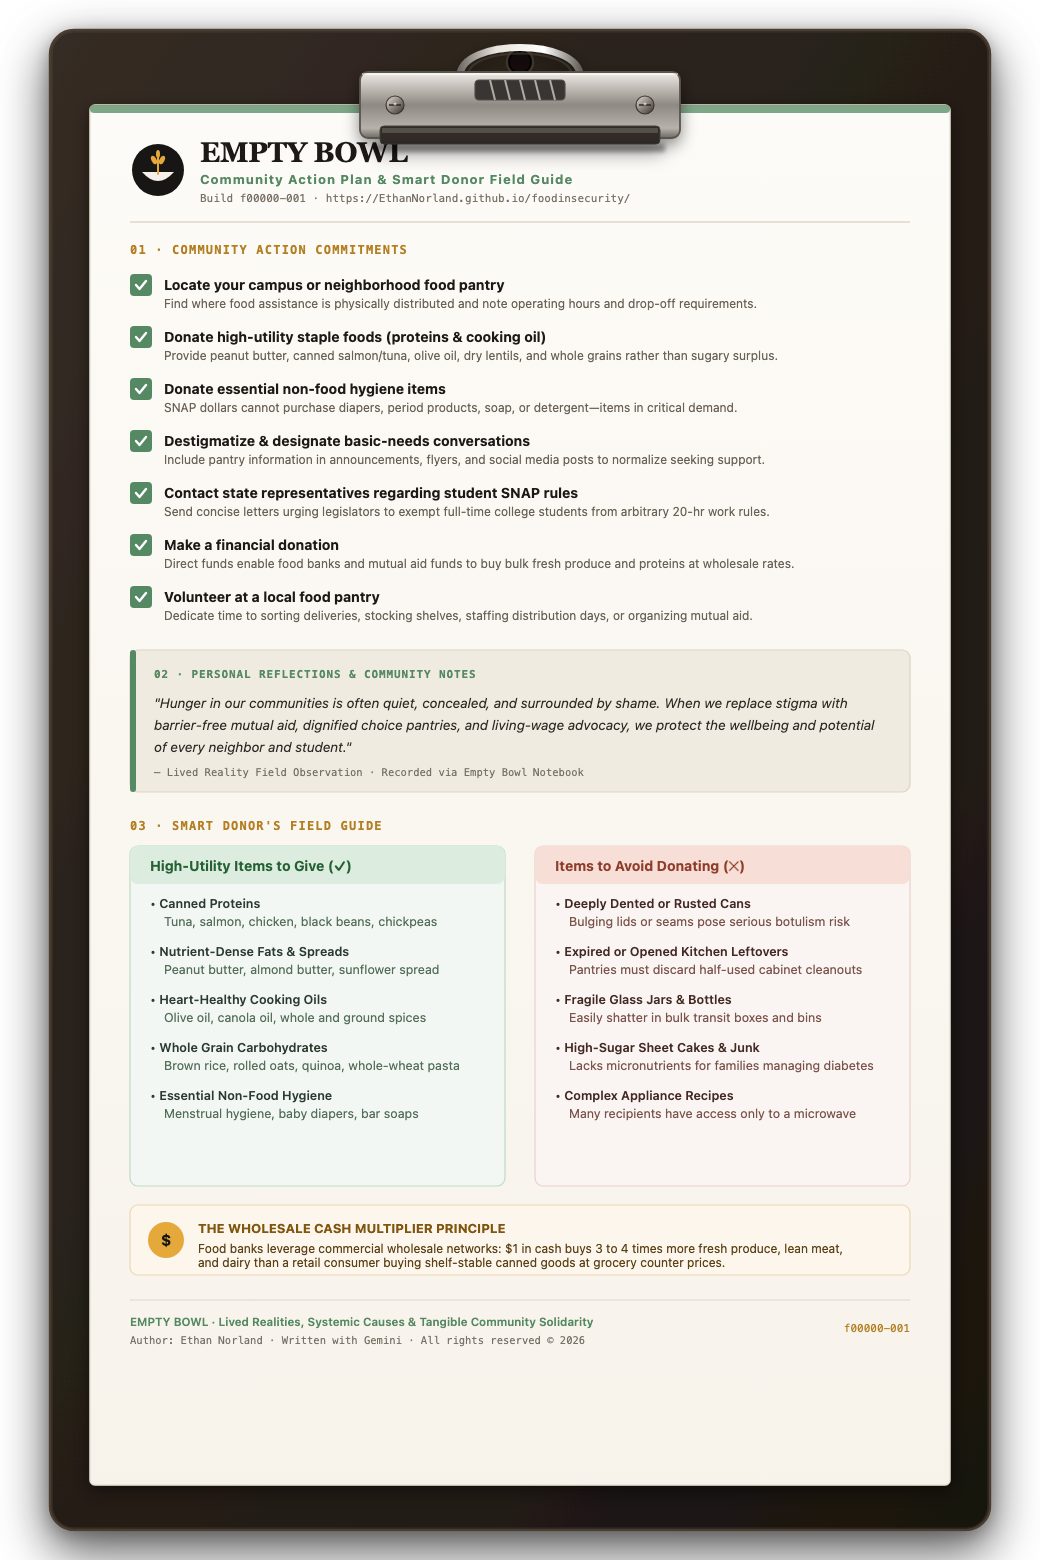
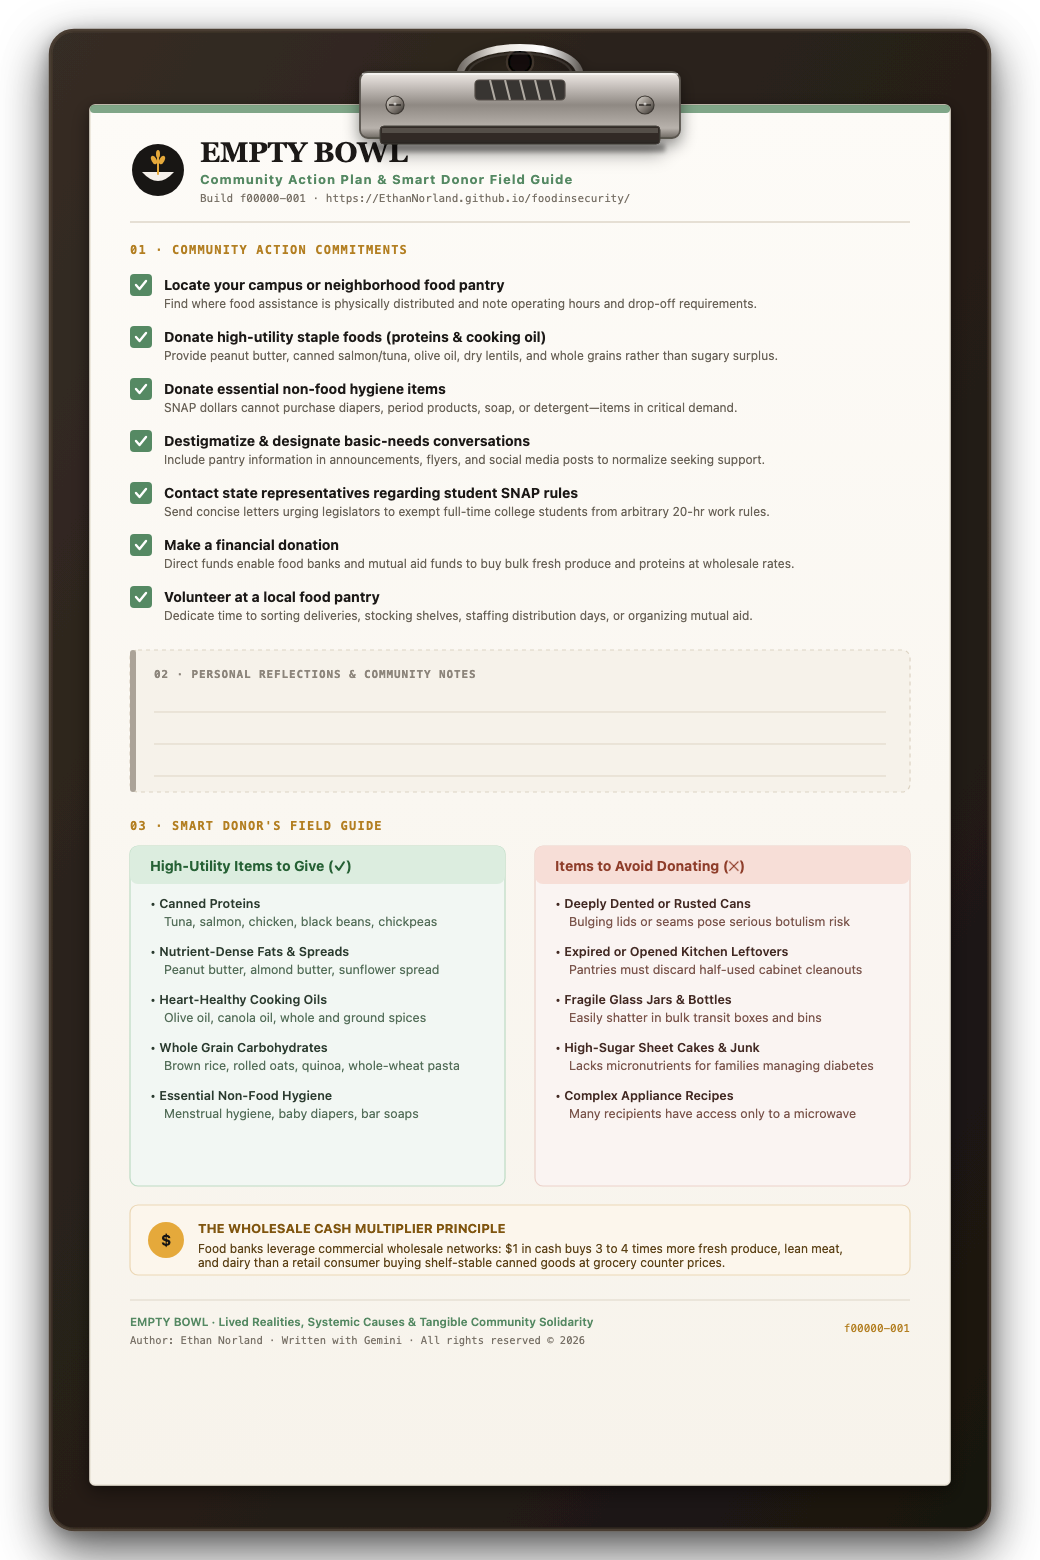
f00000-001: leave personal reflections and community notes blank on clipboard picture if unfilled

diff --git a/howyoucanhelp.html b/howyoucanhelp.html
@@ -802,29 +802,52 @@ function buildClipboardSvg(state = [], userNotes = "") {
     `;
   });
 
-  const rawNotes = (userNotes && userNotes.trim().length > 0)
-    ? userNotes.trim()
-    : "Hunger in our communities is often quiet, concealed, and surrounded by shame. When we replace stigma with barrier-free mutual aid, dignified choice pantries, and living-wage advocacy, we protect the wellbeing and potential of every neighbor and student.";
+  const hasNotes = !!(userNotes && userNotes.trim().length > 0);
+  let section2Svg = "";
 
-  const words = rawNotes.split(/\s+/);
-  const noteLines = [];
-  let cur = [];
-  for (let w of words) {
-    cur.push(w);
-    if (cur.join(" ").length > 88) {
-      noteLines.push(cur.slice(0, -1).join(" "));
-      cur = [w];
-      if (noteLines.length >= 3) break;
+  if (hasNotes) {
+    const rawNotes = userNotes.trim();
+    const words = rawNotes.split(/\s+/);
+    const noteLines = [];
+    let cur = [];
+    for (let w of words) {
+      cur.push(w);
+      if (cur.join(" ").length > 88) {
+        noteLines.push(cur.slice(0, -1).join(" "));
+        cur = [w];
+        if (noteLines.length >= 3) break;
+      }
     }
-  }
-  if (cur.length > 0 && noteLines.length < 3) noteLines.push(cur.join(" "));
+    if (cur.length > 0 && noteLines.length < 3) noteLines.push(cur.join(" "));
 
-  let noteLinesSvg = "";
-  noteLines.forEach((line, i) => {
-    const isFirst = (i === 0);
-    const isLast = (i === noteLines.length - 1);
-    noteLinesSvg += `<text x="24" y="${58 + i * 22}" class="font-sans" font-size="13.5" font-style="italic" fill="#2d2924">${isFirst ? '&quot;' : ''}${escapeXml(line)}${isLast ? '&quot;' : ''}</text>`;
-  });
+    let noteLinesSvg = "";
+    noteLines.forEach((line, i) => {
+      const isFirst = (i === 0);
+      const isLast = (i === noteLines.length - 1);
+      noteLinesSvg += `<text x="24" y="${58 + i * 22}" class="font-sans" font-size="13.5" font-style="italic" fill="#2d2924">${isFirst ? '&quot;' : ''}${escapeXml(line)}${isLast ? '&quot;' : ''}</text>`;
+    });
+
+    section2Svg = `
+    <g transform="translate(130, 650)">
+      <rect x="0" y="0" width="780" height="142" rx="8" fill="#f0ebe0" stroke="#dcd3c3" stroke-width="1.2"/>
+      <rect x="0" y="0" width="6" height="142" rx="3" fill="#558963"/>
+      <text x="24" y="28" class="font-mono" font-size="11" font-weight="700" letter-spacing="0.08em" fill="#558963" text-transform="uppercase">02 · PERSONAL REFLECTIONS &amp; COMMUNITY NOTES</text>
+      ${noteLinesSvg}
+      <text x="24" y="126" class="font-mono" font-size="10.5" fill="#787167">— Lived Reality Field Observation · Recorded via Empty Bowl Notebook</text>
+    </g>
+    `;
+  } else {
+    section2Svg = `
+    <g transform="translate(130, 650)">
+      <rect x="0" y="0" width="780" height="142" rx="8" fill="#f6f2ea" stroke="#dcd3c3" stroke-width="1.2" stroke-dasharray="4 4"/>
+      <rect x="0" y="0" width="6" height="142" rx="3" fill="#aba398"/>
+      <text x="24" y="28" class="font-mono" font-size="11" font-weight="700" letter-spacing="0.08em" fill="#8c857b" text-transform="uppercase">02 · PERSONAL REFLECTIONS &amp; COMMUNITY NOTES</text>
+      <line x1="24" y1="62" x2="756" y2="62" stroke="#ded5c5" stroke-width="1"/>
+      <line x1="24" y1="94" x2="756" y2="94" stroke="#ded5c5" stroke-width="1"/>
+      <line x1="24" y1="126" x2="756" y2="126" stroke="#ded5c5" stroke-width="1"/>
+    </g>
+    `;
+  }
 
   return `<svg xmlns="http://www.w3.org/2000/svg" viewBox="0 0 1040 1560" width="1040" height="1560" fill="none">
   <defs>
@@ -885,13 +908,7 @@ function buildClipboardSvg(state = [], userNotes = "") {
     <line x1="130" y1="222" x2="910" y2="222" stroke="#ded6c8" stroke-width="1.5"/>
     <text x="130" y="254" class="font-mono" font-size="12" font-weight="700" letter-spacing="0.1em" fill="#b37f22" text-transform="uppercase">01 · COMMUNITY ACTION COMMITMENTS</text>
     ${itemsSvg}
-    <g transform="translate(130, 650)">
-      <rect x="0" y="0" width="780" height="142" rx="8" fill="#f0ebe0" stroke="#dcd3c3" stroke-width="1.2"/>
-      <rect x="0" y="0" width="6" height="142" rx="3" fill="#558963"/>
-      <text x="24" y="28" class="font-mono" font-size="11" font-weight="700" letter-spacing="0.08em" fill="#558963" text-transform="uppercase">02 · PERSONAL REFLECTIONS &amp; COMMUNITY NOTES</text>
-      ${noteLinesSvg}
-      <text x="24" y="126" class="font-mono" font-size="10.5" fill="#787167">— Lived Reality Field Observation · Recorded via Empty Bowl Notebook</text>
-    </g>
+    ${section2Svg}
     <text x="130" y="830" class="font-mono" font-size="12" font-weight="700" letter-spacing="0.1em" fill="#b37f22" text-transform="uppercase">03 · SMART DONOR\'S FIELD GUIDE</text>
     <g transform="translate(130, 846)">
       <rect x="0" y="0" width="375" height="340" rx="8" fill="#f2f7f3" stroke="#bddbc4" stroke-width="1.2"/>
